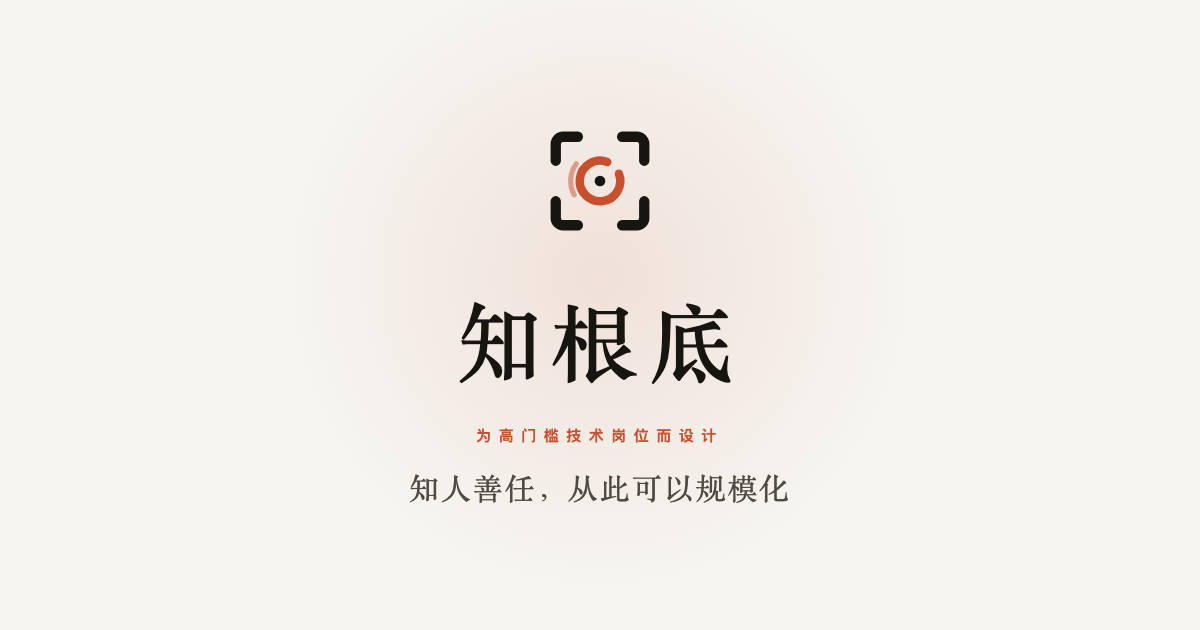
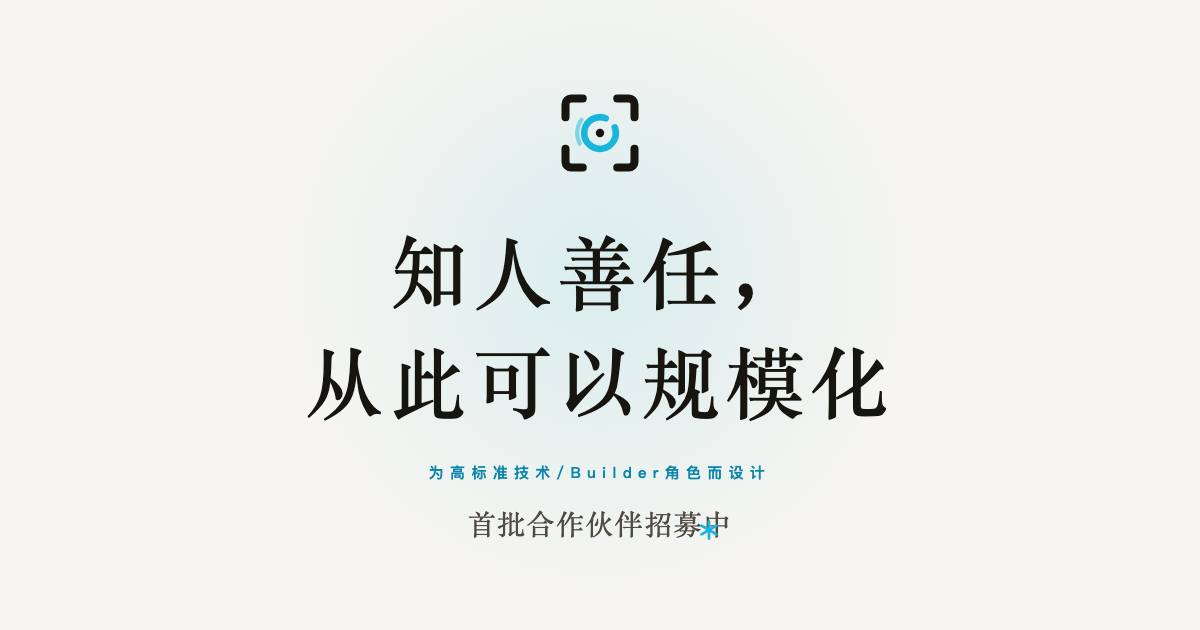
Drop product name, switch to Builder slogan, cyan THANK-style star, elliptical bands

Changed region(s): [[0.2467, 0.1508, 0.74, 0.8746]]

diff --git a/anpan/index.html b/anpan/index.html
@@ -3,10 +3,10 @@
 <head>
 <meta charset="UTF-8">
 <meta name="viewport" content="width=device-width, initial-scale=1, viewport-fit=cover">
-<title>知根底｜知人善任，从此可以规模化</title>
-<meta name="description" content="知根底为高门槛技术岗位而设计：接入飞书，把用人经理的每一次判断，沉淀为一份越用越准、全员共用的人才标准。">
-<meta property="og:title" content="知根底 · 知人善任，从此可以规模化">
-<meta property="og:description" content="为高门槛技术岗位而设计。把最好的用人经理的眼光，变成整个公司的标准。">
+<title>知人善任，从此可以规模化</title>
+<meta name="description" content="为高标准技术/Builder角色而设计：接入飞书，把用人经理的每一次判断，沉淀为一份越用越准、全员共用的人才标准。">
+<meta property="og:title" content="知人善任，从此可以规模化">
+<meta property="og:description" content="为高标准技术/Builder角色而设计。把最好的用人经理的眼光，变成整个公司的标准。">
 <meta property="og:type" content="website">
 <meta property="og:image" content="https://pekxing-0.github.io/share/anpan/share.png">
 <meta name="theme-color" content="#F6F5F1">
@@ -15,7 +15,7 @@
 :root{
   --bg:#F6F5F1;--bg-2:#EEEBE4;--card:#FFFFFF;--soft:#FBFAF7;--line:#E6E2D9;--line-2:#D7D2C6;
   --ink:#17150F;--ink-2:#4F4B43;--muted:#8B877D;--faint:#B4AFA4;
-  --accent:#D04A2E;--accent-t:#B23B23;--accent-l:#F08A70;--accent-soft:rgba(208,74,46,.09);--jade:#2F6B57;
+  --accent:#19B5DC;--accent-t:#0C86AB;--accent-l:#7BD9EF;--accent-soft:rgba(25,181,220,.10);--err:#C8502E;--jade:#2F6B57;
   --serif:"Noto Serif SC","Source Han Serif SC","Source Han Serif CN","Songti SC","STSong","SimSun",serif;
   --sans:"PingFang SC","HarmonyOS Sans SC","Noto Sans SC","Source Han Sans SC","Microsoft YaHei",-apple-system,BlinkMacSystemFont,"Segoe UI",sans-serif;
   --wrap:1120px;--r:18px;
@@ -43,9 +43,6 @@ section{scroll-margin-top:76px}
 .nav .wrap{display:flex;align-items:center;height:68px;gap:44px}
 .brand{display:inline-flex;align-items:center;gap:10px;color:var(--ink)}
 .brand svg{height:31px;width:31px;display:block}
-.brand .bw{display:flex;flex-direction:column;gap:3px;line-height:1}
-.brand .bw b{font-family:var(--serif);font-weight:700;font-size:17px;letter-spacing:.07em}
-.brand .bw i{font-style:normal;font-size:8px;letter-spacing:.32em;color:var(--muted);font-family:"SF Mono",ui-monospace,Menlo,Consolas,monospace}
 .nav nav{display:flex;gap:30px;font-size:14px;color:var(--ink-2)}
 .nav nav a{transition:color .2s}.nav nav a:hover{color:var(--ink)}
 .nav-tag{display:inline-flex;align-items:center;gap:8px;margin-left:auto;font-size:12.5px;letter-spacing:.08em;color:var(--ink-2)}
@@ -66,20 +63,18 @@ section{scroll-margin-top:76px}
 
 /* hero */
 .hero{position:relative;overflow:hidden;padding:146px 0 0;text-align:center}
-.hero:before{content:"";position:absolute;left:50%;top:-380px;width:1500px;height:1100px;transform:translateX(-50%);background:radial-gradient(closest-side,rgba(208,74,46,.12),rgba(208,74,46,.04) 48%,transparent 72%);pointer-events:none}
+.hero:before{content:"";position:absolute;left:50%;top:-380px;width:1500px;height:1100px;transform:translateX(-50%);background:radial-gradient(closest-side,rgba(25,181,220,.13),rgba(25,181,220,.05) 48%,transparent 72%);pointer-events:none}
 .hero:after{content:"";position:absolute;inset:0;background-image:radial-gradient(rgba(23,21,15,.16) 1px,transparent 1.6px);background-size:30px 30px;-webkit-mask-image:radial-gradient(ellipse 58% 42% at 50% 22%,#000 10%,transparent 72%);mask-image:radial-gradient(ellipse 58% 42% at 50% 22%,#000 10%,transparent 72%);pointer-events:none;opacity:.5}
 .hero .wrap{position:relative;z-index:1}
 .mark{position:relative;width:64px;height:64px;margin:0 auto 30px}
-.mark .glow{position:absolute;inset:-56px;border-radius:50%;background:radial-gradient(closest-side,rgba(208,74,46,.24),rgba(208,74,46,.07) 55%,transparent);animation:glow 5.5s ease-in-out infinite}
+.mark .glow{position:absolute;inset:-56px;border-radius:50%;background:radial-gradient(closest-side,rgba(25,181,220,.26),rgba(25,181,220,.09) 55%,transparent);animation:glow 5.5s ease-in-out infinite}
 .mark svg{position:relative;display:block;width:100%;height:100%;overflow:visible}
-.mark .mk-br{fill:none;stroke:var(--ink);stroke-width:5.6;stroke-linecap:round;stroke-dasharray:1 1;stroke-dashoffset:1;animation:draw 1.1s cubic-bezier(.2,.8,.2,1) .8s forwards}
-.mark .mk-ring{fill:none;stroke:var(--accent);stroke-width:4.6;stroke-linecap:round;stroke-dasharray:1 1;stroke-dashoffset:1;animation:draw .9s cubic-bezier(.2,.8,.2,1) .3s forwards}
-.mark .mk-echo{fill:none;stroke:var(--accent);stroke-width:2.8;stroke-linecap:round;opacity:0;animation:echo 1s ease 1.15s forwards}
-.mark .mk-dot{fill:var(--ink);transform-box:fill-box;transform-origin:center;animation:seed .55s cubic-bezier(.3,1.7,.5,1) .05s both}
-.mark .sp{transform-box:view-box;transform-origin:center;animation:spin 14s linear 1.9s infinite}
+.mark .st{transform-box:view-box;transform-origin:center;animation:spin 20s linear 2.4s infinite}
+.mark .arm{fill:none;stroke:var(--accent);stroke-width:6.6;stroke-linecap:round;stroke-dasharray:1 1;stroke-dashoffset:1;animation:draw .7s cubic-bezier(.2,.8,.2,1) forwards}
+.mark .arm:nth-child(1){animation-delay:.14s}.mark .arm:nth-child(2){animation-delay:.26s}.mark .arm:nth-child(3){animation-delay:.38s}.mark .arm:nth-child(4){animation-delay:.5s}.mark .arm:nth-child(5){animation-delay:.62s}.mark .arm:nth-child(6){animation-delay:.74s}
+.mark .sdc{fill:var(--accent);transform-box:fill-box;transform-origin:center;animation:seed .5s cubic-bezier(.3,1.7,.5,1) .04s both}
 @keyframes draw{to{stroke-dashoffset:0}}
 @keyframes seed{from{transform:scale(0)}}
-@keyframes echo{to{opacity:.5}}
 @keyframes spin{to{transform:rotate(360deg)}}
 @keyframes glow{0%,100%{opacity:.7;transform:scale(.94)}50%{opacity:1;transform:scale(1.05)}}
 .eyebrow{display:inline-flex;align-items:center;gap:14px;font-size:14.5px;font-weight:600;letter-spacing:.3em;color:var(--accent-t);margin-bottom:24px}
@@ -134,7 +129,7 @@ section{scroll-margin-top:76px}
 
 /* sections */
 .sec{padding:150px 0}
-.band{background:var(--bg-2)}
+.band{background:radial-gradient(ellipse 66% 82% at 50% 50%, var(--bg-2), rgba(238,235,228,.45) 52%, transparent 76%)}
 .kick{font-size:13px;font-weight:600;letter-spacing:.18em;color:var(--accent-t);margin-bottom:18px}
 .h2{font-family:var(--serif);font-weight:700;font-size:clamp(27px,6.9vw,52px);line-height:1.28;letter-spacing:.005em}
 .lead{font-size:18px;line-height:1.9;color:var(--ink-2);max-width:660px;margin-top:22px}
@@ -184,7 +179,7 @@ section{scroll-margin-top:76px}
 .js .sg,.js .sr{clip-path:inset(-12px 100% -12px -12px)}
 .chart.play .sg{clip-path:inset(-12px);transition:clip-path 1.6s linear}
 .chart.play .sr{clip-path:inset(-12px);transition:clip-path 2.4s linear 1s}
-.dot{position:absolute;left:var(--x);top:var(--y);width:11px;height:11px;margin:-5.5px 0 0 -5.5px;border-radius:50%;background:var(--accent);box-shadow:0 0 0 5px rgba(208,74,46,.14)}
+.dot{position:absolute;left:var(--x);top:var(--y);width:11px;height:11px;margin:-5.5px 0 0 -5.5px;border-radius:50%;background:var(--accent);box-shadow:0 0 0 5px rgba(25,181,220,.15)}
 .js .dot{transform:scale(0);transition:transform .45s cubic-bezier(.3,1.7,.5,1)}
 .chart.play .dot{transform:scale(1);transition-delay:var(--d)}
 .ylab,.xlab{position:absolute;font-size:12.5px;color:var(--muted);letter-spacing:.06em;white-space:nowrap}
@@ -199,7 +194,7 @@ section{scroll-margin-top:76px}
 .step .ic{width:44px;height:44px;border-radius:12px;background:var(--bg);border:1px solid var(--line);display:grid;place-items:center;margin:22px 0;color:var(--ink)}
 .step h3{font-family:var(--serif);font-size:22px;margin-bottom:10px}
 .step p{font-size:15.5px;color:var(--ink-2);line-height:1.85}
-.step.first{border-color:rgba(208,74,46,.5);box-shadow:0 0 0 4px var(--accent-soft),var(--sh)}
+.step.first{border-color:rgba(25,181,220,.5);box-shadow:0 0 0 4px var(--accent-soft),var(--sh)}
 .step.first .ic{background:var(--accent);border-color:var(--accent);color:#fff}
 .step .tag{position:absolute;top:30px;right:30px;font-size:12px;font-weight:600;color:var(--accent-t);letter-spacing:.1em}
 .fine{margin-top:26px;font-size:13.5px;color:var(--muted)}
@@ -241,11 +236,11 @@ section{scroll-margin-top:76px}
 
 /* apply */
 .apply{position:relative;overflow:hidden;padding:150px 0 140px}
-.apply:before{content:"";position:absolute;left:50%;bottom:-520px;width:1400px;height:1000px;transform:translateX(-50%);background:radial-gradient(closest-side,rgba(208,74,46,.10),rgba(208,74,46,.03) 50%,transparent 72%);pointer-events:none}
+.apply:before{content:"";position:absolute;left:50%;bottom:-520px;width:1400px;height:1000px;transform:translateX(-50%);background:radial-gradient(closest-side,rgba(25,181,220,.11),rgba(25,181,220,.04) 50%,transparent 72%);pointer-events:none}
 .apply .grid{position:relative;display:grid;grid-template-columns:1fr 1.08fr;gap:72px;align-items:start}
 .scarce{margin-top:26px;font-size:14px;color:var(--ink-2);display:flex;gap:10px;align-items:center}
 .scarce i{width:7px;height:7px;border-radius:50%;background:var(--accent);animation:pulse 2.4s infinite}
-@keyframes pulse{0%{box-shadow:0 0 0 0 rgba(208,74,46,.5)}70%{box-shadow:0 0 0 8px rgba(208,74,46,0)}100%{box-shadow:0 0 0 0 rgba(208,74,46,0)}}
+@keyframes pulse{0%{box-shadow:0 0 0 0 rgba(25,181,220,.5)}70%{box-shadow:0 0 0 8px rgba(25,181,220,0)}100%{box-shadow:0 0 0 0 rgba(25,181,220,0)}}
 .plabel{margin-top:44px;font-size:13px;font-weight:600;letter-spacing:.12em;color:var(--muted);margin-bottom:10px}
 .plist{list-style:none}
 .plist li{position:relative;padding:14px 0 14px 28px;border-bottom:1px solid var(--line);font-size:15.5px;line-height:1.7}
@@ -257,11 +252,11 @@ section{scroll-margin-top:76px}
 .field{display:flex;flex-direction:column;gap:8px}
 .field.full{grid-column:1/-1}
 .field label{font-size:13px;color:var(--ink-2);letter-spacing:.04em}
-.field label i{font-style:normal;color:var(--accent);margin-left:3px}
+.field label i{font-style:normal;color:var(--err);margin-left:3px}
 .field input{height:50px;border-radius:12px;border:1px solid var(--line-2);background:var(--soft);padding:0 14px;font-size:15px;transition:border-color .2s,background .2s,box-shadow .2s}
 .field input::placeholder{color:var(--faint)}
 .field input:focus{outline:none;border-color:var(--ink);background:#fff;box-shadow:0 0 0 4px rgba(23,21,15,.06)}
-.field input.bad{border-color:var(--accent);box-shadow:0 0 0 4px var(--accent-soft)}
+.field input.bad{border-color:var(--err);box-shadow:0 0 0 4px rgba(200,80,46,.10)}
 .form .foot{display:flex;align-items:center;gap:16px;margin-top:24px;flex-wrap:wrap}
 .form .foot small{font-size:12.5px;color:var(--muted);line-height:1.6}
 .done-panel{display:none}
@@ -307,7 +302,7 @@ footer a:hover,footer button:hover{color:var(--ink)}
 .js .rv.d1{transition-delay:.08s}.js .rv.d2{transition-delay:.16s}.js .rv.d3{transition-delay:.24s}
 .toast{position:fixed;left:50%;bottom:28px;transform:translate(-50%,20px);background:var(--ink);color:var(--bg);border-radius:999px;padding:10px 20px;font-size:14px;box-shadow:0 10px 40px rgba(0,0,0,.2);opacity:0;pointer-events:none;transition:opacity .3s,transform .3s;z-index:90}
 .toast.on{opacity:1;transform:translate(-50%,0)}
-@media(prefers-reduced-motion:reduce){*{animation:none!important;transition:none!important}.js .rv{opacity:1;transform:none}.mark .mk-br,.mark .mk-ring{stroke-dashoffset:0}.mark .mk-echo{opacity:.5}.js .sg,.js .sr{clip-path:none}.js .dot,.js .drift .dl,.js .drift .lost{opacity:1;transform:none}}
+@media(prefers-reduced-motion:reduce){*{animation:none!important;transition:none!important}.js .rv{opacity:1;transform:none}.mark .arm{stroke-dashoffset:0}.js .sg,.js .sr{clip-path:none}.js .dot,.js .drift .dl,.js .drift .lost{opacity:1;transform:none}}
 </style>
 <script>document.documentElement.classList.add('js')</script>
 </head>
@@ -320,7 +315,7 @@ footer a:hover,footer button:hover{color:var(--ink)}
 
 <header class="nav" id="nav">
   <div class="wrap">
-    <a class="brand" href="#top" aria-label="知根底 首页"><svg viewBox="0 0 64 64" role="img" aria-hidden="true"><use href="#mk"/></svg><span class="bw"><b>知根底</b><i>ANPAN</i></span></a>
+    <a class="brand" href="#top" aria-label="回到顶部"><svg viewBox="0 0 64 64" role="img" aria-hidden="true"><use href="#mk"/></svg></a>
     <nav aria-label="主导航"><a href="#why">为什么</a><a href="#how">如何开始</a><a href="#become">价值</a><a href="#different">不同之处</a><a href="#trust">信任</a></nav>
     <span class="nav-tag"><i></i>首批合作伙伴招募中</span>
     <a class="btn btn-ink btn-sm cta" href="#apply">申请首批合作</a>
@@ -331,11 +326,11 @@ footer a:hover,footer button:hover{color:var(--ink)}
 <section class="hero" aria-labelledby="h1">
   <div class="wrap">
     <div class="mark" aria-hidden="true"><div class="glow"></div>
-      <svg viewBox="0 0 64 64"><path class="mk-br" pathLength="1" d="M20 8 H12 a4 4 0 0 0 -4 4 V21 M44 8 H52 a4 4 0 0 1 4 4 V21 M56 43 V52 a4 4 0 0 1 -4 4 H44 M8 43 V52 a4 4 0 0 0 4 4 H20"/><g class="sp"><path class="mk-echo" d="M17.96 39.46 A15.9 15.9 0 0 1 19.14 22.65"/><path class="mk-ring" pathLength="1" d="M42.27 28.06 A11 11 0 1 1 35.94 21.73"/></g><circle class="mk-dot" cx="32" cy="32" r="2.9"/></svg>
+      <svg viewBox="0 0 64 64"><g class="st"><path class="arm" pathLength="1" d="M32 32V10.5"/><path class="arm" pathLength="1" d="M32 32V10.5" transform="rotate(60 32 32)"/><path class="arm" pathLength="1" d="M32 32V10.5" transform="rotate(120 32 32)"/><path class="arm" pathLength="1" d="M32 32V10.5" transform="rotate(180 32 32)"/><path class="arm" pathLength="1" d="M32 32V10.5" transform="rotate(240 32 32)"/><path class="arm" pathLength="1" d="M32 32V10.5" transform="rotate(300 32 32)"/><circle class="sdc" cx="32" cy="32" r="3.8"/></g></svg>
     </div>
-    <p class="eyebrow"><span>为高门槛技术岗位而设计</span></p>
+    <p class="eyebrow"><span>为高标准技术/Builder角色而设计</span></p>
     <h1 id="h1">知人善任，<br>从此可以规模化。</h1>
-    <p class="sub"><span class="nb">最好的用人经理，</span><span class="nb">眼光只在自己脑子里。</span><br class="d"><span class="nb">知根底接入飞书，</span><span class="nb">把他的每一次判断，</span><span class="nb">沉淀为一份越用越准、</span><span class="nb">全员共用的人才标准。</span></p>
+    <p class="sub"><span class="nb">最好的用人经理，</span><span class="nb">眼光只在自己脑子里。</span><br class="d"><span class="nb">接入飞书，</span><span class="nb">把他的每一次判断，</span><span class="nb">沉淀为一份越用越准、</span><span class="nb">全员共用的人才标准。</span></p>
     <div class="actions">
       <a class="btn btn-ink" href="#apply">申请首批合作 <span class="arr">→</span></a>
       <button class="btn btn-line" type="button" data-wx><svg class="qi" viewBox="0 0 16 16" fill="none" aria-hidden="true"><path d="M2 5.5V2h3.5M10.5 2H14v3.5M14 10.5V14h-3.5M5.5 14H2v-3.5" stroke="currentColor" stroke-width="1.5" stroke-linecap="round" stroke-linejoin="round"/><rect x="5.5" y="5.5" width="5" height="5" rx="1" stroke="currentColor" stroke-width="1.5"/></svg>添加微信 frankxing</button>
@@ -359,8 +354,8 @@ footer a:hover,footer button:hover{color:var(--ink)}
   </div>
 </section>
 
-<section class="domains" aria-label="为高门槛技术岗位而设计">
-  <p class="dk rv">为高门槛技术岗位而设计</p>
+<section class="domains" aria-label="为高标准技术/Builder角色而设计">
+  <p class="dk rv">为高标准技术/Builder角色而设计</p>
   <div class="marq rv d1" aria-hidden="true"><div class="track">
     <span>大模型<svg viewBox="0 0 64 64"><use href="#mk"/></svg></span><span>AI 基础设施<svg viewBox="0 0 64 64"><use href="#mk"/></svg></span><span>芯片<svg viewBox="0 0 64 64"><use href="#mk"/></svg></span><span>具身智能<svg viewBox="0 0 64 64"><use href="#mk"/></svg></span><span>机器人<svg viewBox="0 0 64 64"><use href="#mk"/></svg></span><span>自动驾驶<svg viewBox="0 0 64 64"><use href="#mk"/></svg></span><span>硬科技出海<svg viewBox="0 0 64 64"><use href="#mk"/></svg></span>
     <span>大模型<svg viewBox="0 0 64 64"><use href="#mk"/></svg></span><span>AI 基础设施<svg viewBox="0 0 64 64"><use href="#mk"/></svg></span><span>芯片<svg viewBox="0 0 64 64"><use href="#mk"/></svg></span><span>具身智能<svg viewBox="0 0 64 64"><use href="#mk"/></svg></span><span>机器人<svg viewBox="0 0 64 64"><use href="#mk"/></svg></span><span>自动驾驶<svg viewBox="0 0 64 64"><use href="#mk"/></svg></span><span>硬科技出海<svg viewBox="0 0 64 64"><use href="#mk"/></svg></span>
@@ -412,10 +407,10 @@ footer a:hover,footer button:hover{color:var(--ink)}
     <div class="steps">
       <div class="step first rv"><span class="n">01</span><span class="tag">唯一需要做的事</span>
         <div class="ic"><svg width="20" height="20" viewBox="0 0 20 20" fill="none" aria-hidden="true"><path d="M8 12l4-4M7.2 9.4L5.6 11a2.8 2.8 0 004 4l1.6-1.6M12.8 10.6L14.4 9a2.8 2.8 0 00-4-4L8.8 6.6" stroke="currentColor" stroke-width="1.6" stroke-linecap="round"/></svg></div>
-        <h3>接入</h3><p>授权飞书，知根底就在你已有的对话里开始工作。没有新系统，没有新账号。</p></div>
+        <h3>接入</h3><p>授权飞书，它就在你已有的对话里开始工作。没有新系统，没有新账号。</p></div>
       <div class="step rv d1"><span class="n">02</span>
         <div class="ic"><svg width="20" height="20" viewBox="0 0 20 20" fill="none" aria-hidden="true"><path d="M4 5.5h12M4 10h12M4 14.5h7" stroke="currentColor" stroke-width="1.6" stroke-linecap="round"/></svg></div>
-        <h3>照常招聘</h3><p>照常开需求会、看简历、面试、给反馈。知根底记住每一个判断，并在需要的时刻主动出现。</p></div>
+        <h3>照常招聘</h3><p>照常开需求会、看简历、面试、给反馈。你的每一个判断都被记住，并在需要的时刻主动出现。</p></div>
       <div class="step rv d2"><span class="n">03</span>
         <div class="ic"><svg width="20" height="20" viewBox="0 0 20 20" fill="none" aria-hidden="true"><path d="M3.5 15.5l4.5-5 3 3 5.5-7" stroke="currentColor" stroke-width="1.6" stroke-linecap="round" stroke-linejoin="round"/><path d="M12.5 6.5h4v4" stroke="currentColor" stroke-width="1.6" stroke-linecap="round" stroke-linejoin="round"/></svg></div>
         <h3>标准自己长出来</h3><p>每一次判断都让人才标准更准一点。HR 与猎头拿到的，永远是最新的那一版。</p></div>
@@ -441,9 +436,9 @@ footer a:hover,footer button:hover{color:var(--ink)}
   <div class="wrap">
     <div class="kick rv">为什么不是再多一个 Agent</div>
     <h2 class="h2 rv d1">Agent 可以有很多个，<br>标准只能有一份。</h2>
-    <p class="lead rv d2">多数 AI 招聘方案，是让更多 Agent 替你完成招聘里的“事”。知根底做的是另一件事：让招聘里的“判断”成为资产。</p>
+    <p class="lead rv d2">多数 AI 招聘方案，是让更多 Agent 替你完成招聘里的“事”。我们做的是另一件事：让招聘里的“判断”成为资产。</p>
     <div class="vs">
-      <div class="hd"><div>常见的多 Agent 招聘方案</div><div><span class="vsl"><svg viewBox="0 0 64 64" aria-hidden="true"><use href="#mk"/></svg>知根底</span></div></div>
+      <div class="hd"><div>常见的多 Agent 招聘方案</div><div><span class="vsl"><svg viewBox="0 0 64 64" aria-hidden="true"><use href="#mk"/></svg></span></div></div>
       <div class="r rv"><div class="a">自动化招聘里的“事”：寻源、筛选、约面、写面评</div><div class="b"><svg viewBox="0 0 64 64" aria-hidden="true"><use href="#mk"/></svg>沉淀招聘里的“判断”：要什么人、为什么、怎么验证</div></div>
       <div class="r rv"><div class="a">为招聘专员设计</div><div class="b"><svg viewBox="0 0 64 64" aria-hidden="true"><use href="#mk"/></svg>为用人经理设计——真正做决定的人</div></div>
       <div class="r rv"><div class="a">每个 Agent 各自理解职位，上下文彼此断开</div><div class="b"><svg viewBox="0 0 64 64" aria-hidden="true"><use href="#mk"/></svg>所有环节，读写同一份人才标准</div></div>
@@ -457,7 +452,7 @@ footer a:hover,footer button:hover{color:var(--ink)}
     <div class="kick rv">信任</div>
     <h2 class="h2 rv d1">判断，各归其主。</h2>
     <div class="trust">
-      <div class="rv"><div class="ic"><svg width="24" height="24" viewBox="0 0 24 24" fill="none" aria-hidden="true"><circle cx="12" cy="8" r="3.5" stroke="currentColor" stroke-width="1.6"/><path d="M5 20c.8-3.6 3.6-5.5 7-5.5s6.2 1.9 7 5.5" stroke="currentColor" stroke-width="1.6" stroke-linecap="round"/></svg></div><h3>决定由人做出</h3><p>知根底只提供依据，<br class="d">从不自动淘汰候选人。</p></div>
+      <div class="rv"><div class="ic"><svg width="24" height="24" viewBox="0 0 24 24" fill="none" aria-hidden="true"><circle cx="12" cy="8" r="3.5" stroke="currentColor" stroke-width="1.6"/><path d="M5 20c.8-3.6 3.6-5.5 7-5.5s6.2 1.9 7 5.5" stroke="currentColor" stroke-width="1.6" stroke-linecap="round"/></svg></div><h3>决定由人做出</h3><p>只提供依据，<br class="d">从不自动淘汰候选人。</p></div>
       <div class="rv d1"><div class="ic"><svg width="24" height="24" viewBox="0 0 24 24" fill="none" aria-hidden="true"><path d="M12 4v16M5 8h14M5 8l-2.5 6h5L5 8zM19 8l-2.5 6h5L19 8z" stroke="currentColor" stroke-width="1.6" stroke-linejoin="round"/></svg></div><h3>公平是默认值</h3><p>学历、年龄、性别、婚育，<br class="d">不进入任何判断。</p></div>
       <div class="rv d2"><div class="ic"><svg width="24" height="24" viewBox="0 0 24 24" fill="none" aria-hidden="true"><circle cx="8.5" cy="12" r="3.5" stroke="currentColor" stroke-width="1.6"/><path d="M12 12h8.5M17 12v3M20 12v2.2" stroke="currentColor" stroke-width="1.6" stroke-linecap="round"/></svg></div><h3>归属分明</h3><p>公司的数据属于公司，<br class="d">识人的方法属于用人经理。</p></div>
       <div class="rv d3"><div class="ic"><svg width="24" height="24" viewBox="0 0 24 24" fill="none" aria-hidden="true"><rect x="5" y="10.5" width="14" height="9.5" rx="2" stroke="currentColor" stroke-width="1.6"/><path d="M8.5 10.5V8a3.5 3.5 0 017 0v2.5" stroke="currentColor" stroke-width="1.6"/></svg></div><h3>绝不外用</h3><p>你的数据，<br class="d">不会用于训练任何共享模型。</p></div>
@@ -474,7 +469,7 @@ footer a:hover,footer button:hover{color:var(--ink)}
       <div class="scarce rv"><i></i>名额有限，按匹配度安排</div>
       <div class="plabel rv">适合你，如果</div>
       <ul class="plist rv">
-        <li><svg viewBox="0 0 64 64" aria-hidden="true"><use href="#mk"/></svg>你在招大模型、AI 基础设施、芯片、具身智能等高门槛技术岗位</li>
+        <li><svg viewBox="0 0 64 64" aria-hidden="true"><use href="#mk"/></svg>你在招大模型、AI 基础设施、芯片、具身智能方向的高标准技术/Builder角色</li>
         <li><svg viewBox="0 0 64 64" aria-hidden="true"><use href="#mk"/></svg>你同时与多家猎头合作</li>
         <li><svg viewBox="0 0 64 64" aria-hidden="true"><use href="#mk"/></svg>你的用人经理深度参与面试</li>
         <li><svg viewBox="0 0 64 64" aria-hidden="true"><use href="#mk"/></svg>你的团队使用飞书</li>
@@ -507,7 +502,7 @@ footer a:hover,footer button:hover{color:var(--ink)}
 </section>
 </main>
 
-<footer><div class="wrap"><a class="brand" href="#top" aria-label="知根底 首页"><svg viewBox="0 0 64 64" aria-hidden="true"><use href="#mk"/></svg><span class="bw"><b>知根底</b><i>ANPAN</i></span></a><span>为高门槛技术岗位而设计</span><div class="r"><a href="#apply">申请首批合作</a><button type="button" data-wx>微信 frankxing</button><span>© 2026 知根底</span></div></div></footer>
+<footer><div class="wrap"><a class="brand" href="#top" aria-label="回到顶部"><svg viewBox="0 0 64 64" aria-hidden="true"><use href="#mk"/></svg></a><span>为高标准技术/Builder角色而设计</span><div class="r"><a href="#apply">申请首批合作</a><button type="button" data-wx>微信 frankxing</button><span>© 2026</span></div></div></footer>
 
 <div class="wxm" id="wxm" role="dialog" aria-modal="true" aria-labelledby="wxm-t" hidden>
   <div class="wxm-c">
@@ -570,7 +565,7 @@ const LEAD_ENDPOINT = '';
     let bad=false;form.querySelectorAll('input[required]').forEach(i=>{const b=!i.value.trim();i.classList.toggle('bad',b);if(b&&!bad){i.focus();bad=true}});
     if(bad){say('请补全带 * 的信息');return}
     const d=Object.fromEntries(new FormData(form));d.source='官网';d.time=new Date().toLocaleString('zh-CN');
-    const msg=`你好，我是${d.company}的${d.name}（${d.title}），申请知根底首批合作。`+(d.role?`\n最难招的岗位：${d.role}。`:'')+`\n联系方式：${d.contact}`;
+    const msg=`你好，我是${d.company}的${d.name}（${d.title}），申请首批合作。`+(d.role?`\n最难招的岗位：${d.role}。`:'')+`\n联系方式：${d.contact}`;
     $('#done-msg').textContent=msg;
     let sent=false;
     if(LEAD_ENDPOINT){try{await fetch(LEAD_ENDPOINT,{method:'POST',mode:'no-cors',headers:{'Content-Type':'text/plain;charset=UTF-8'},body:JSON.stringify(d)});sent=true}catch(_){}}
